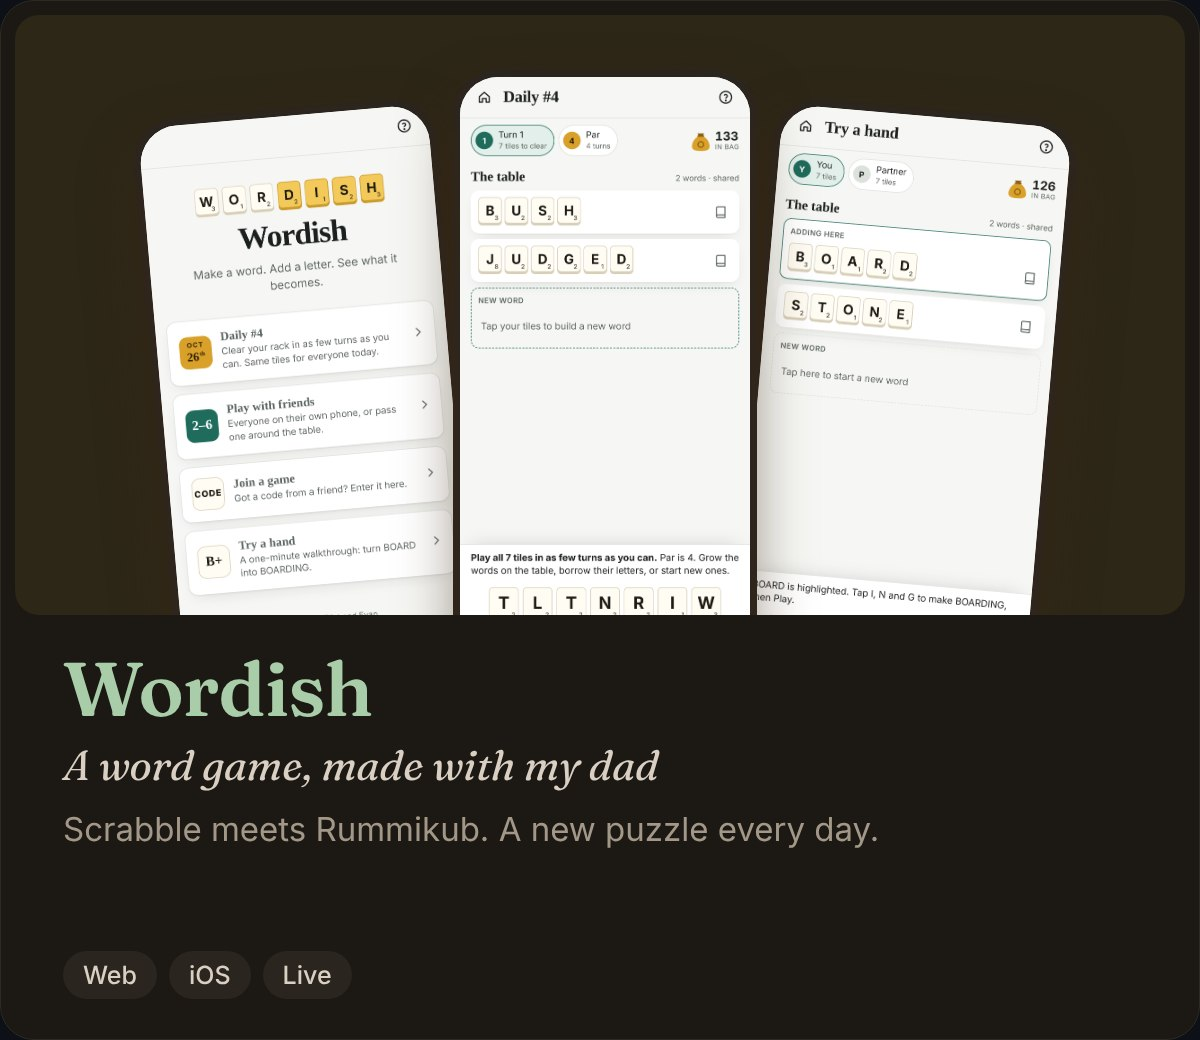
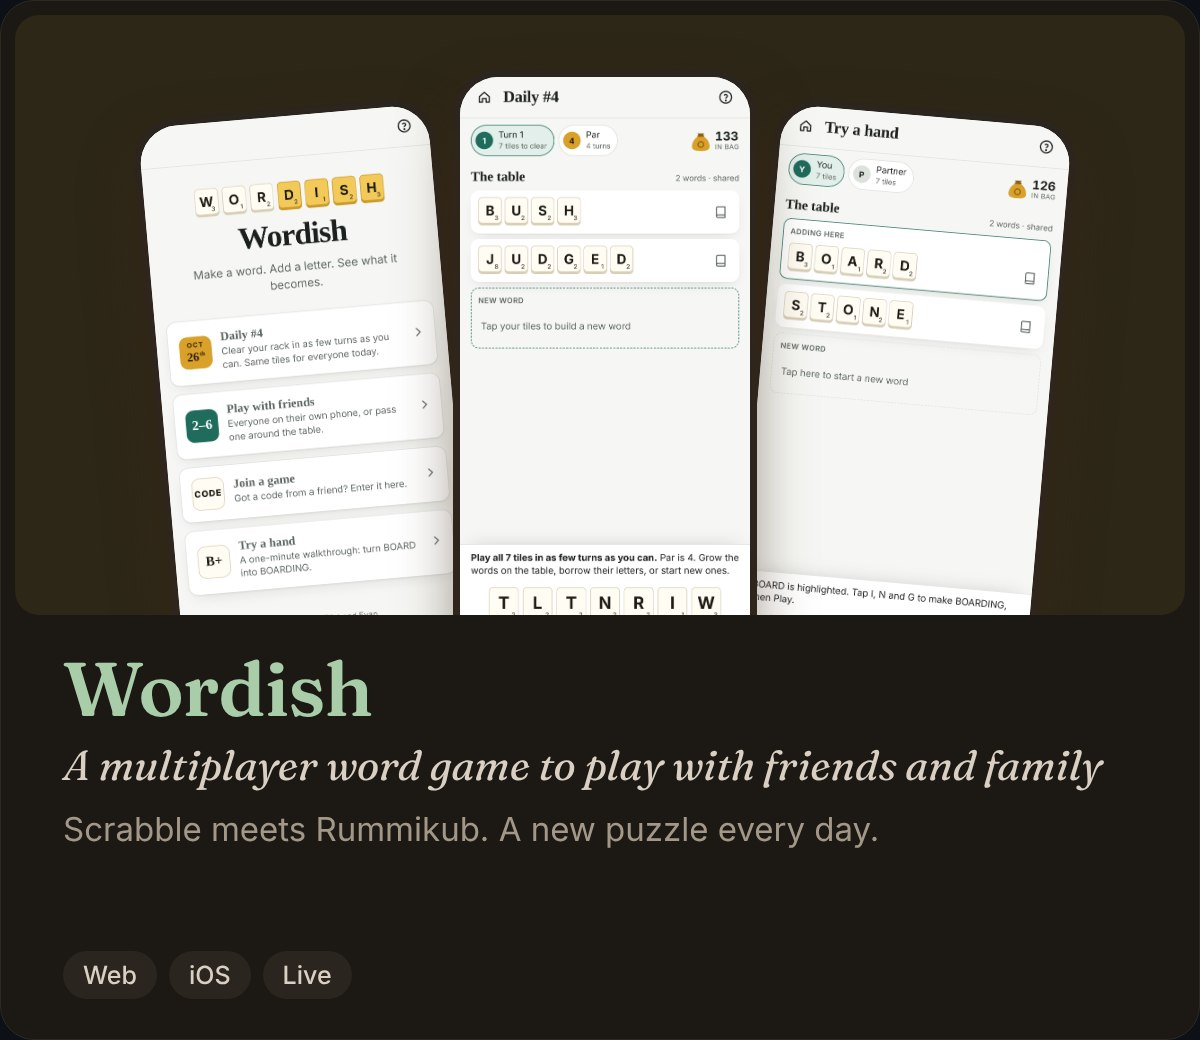
Update Wordish card: a multiplayer word game for friends and family
Claude-Session: https://claude.ai/code/session_011rExv5CZLgYuWKM9MKvMvY

Changed region(s): [[0.0925, 0.7077, 0.925, 0.7692]]

diff --git a/README.md b/README.md
@@ -10,7 +10,7 @@
 <picture><source media="(prefers-color-scheme: dark)" srcset="assets/v2/marche-dark.jpg"><img alt="Marché, a field guide to what's fresh" src="assets/v2/marche-light.jpg" width="49%"></picture>
 </p>
 <p>
-<a href="https://wordish.evanprawda.workers.dev"><picture><source media="(prefers-color-scheme: dark)" srcset="assets/v2/wordish-dark.jpg"><img alt="Wordish, a word game made with my dad" src="assets/v2/wordish-light.jpg" width="49%"></picture></a>
+<a href="https://wordish.evanprawda.workers.dev"><picture><source media="(prefers-color-scheme: dark)" srcset="assets/v2/wordish-dark.jpg"><img alt="Wordish, a multiplayer word game to play with friends and family" src="assets/v2/wordish-light.jpg" width="49%"></picture></a>
 <a href="https://github.com/ev-prawda92/arbiter"><picture><source media="(prefers-color-scheme: dark)" srcset="assets/v2/arbiter-dark.jpg"><img alt="Arbiter, a resolution desk for prediction markets" src="assets/v2/arbiter-light.jpg" width="49%"></picture></a>
 </p>
 <p>
